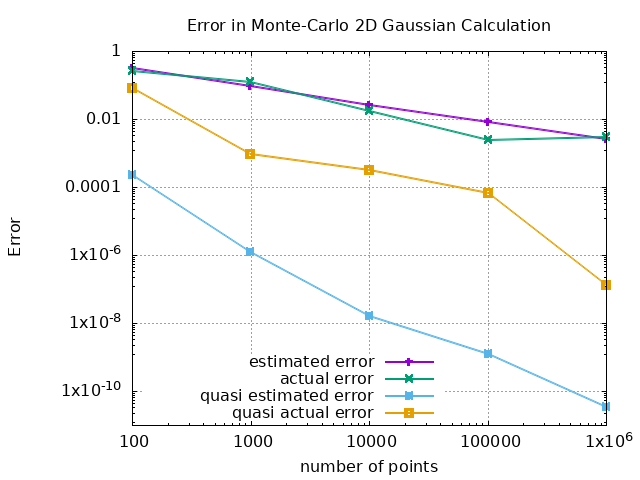
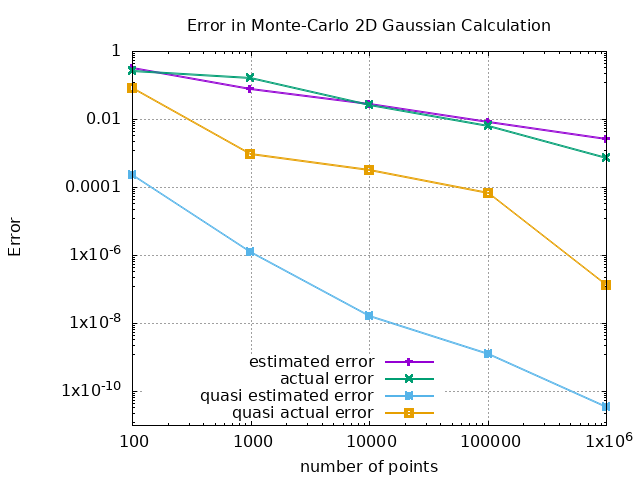
quite far

Changed region(s): [[0.2188, 0.125, 0.9688, 0.3438]]

diff --git a/homeworks/libraries/montecarlo.cs b/homeworks/libraries/montecarlo.cs
@@ -1,19 +1,73 @@
 using System;
 using static System.Math;
 
-public class Montecarlo{
-    public static (double,double) plain(Func<vector,double> f,vector a,vector b,int N){
-        int dim=a.size; double V=1; for(int i=0;i<dim;i++)V*=b[i]-a[i];
-        double sum=0,sum2=0;
-	    var x=new vector(dim);
-	    var rnd=new Random();
-        for(int i=0;i<N;i++){
-                for(int k=0;k<dim;k++)x[k]=a[k]+rnd.NextDouble()*(b[k]-a[k]);
-                double fx=f(x); sum+=fx; sum2+=fx*fx;
-                }
-        double mean=sum/N, sigma=Sqrt(sum2/N-mean*mean);
-        var result=(mean*V,sigma*V/Sqrt(N));
+public class Montecarlo
+{
+    public static (double, double) plain(Func<vector, double> f, vector a, vector b, int N)
+    {
+        int dim = a.size;
+        double V = 1;
+        for (int i = 0; i < dim; i++) V *= b[i] - a[i];
+        double sum = 0, sum2 = 0;
+        var x = new vector(dim);
+        var rnd = new Random();
+        for (int i = 0; i < N; i++)
+        {
+            for (int k = 0; k < dim; k++) x[k] = a[k] + rnd.NextDouble() * (b[k] - a[k]);
+            double fx = f(x);
+            sum += fx;
+            sum2 += fx * fx;
+        }
+        double mean = sum / N, sigma = Sqrt(sum2 / N - mean * mean);
+        var result = (mean * V, sigma * V / Sqrt(N));
         return result;
-}
+    }
 
+    // Updated function: Quasi-random Monte Carlo integrator
+    public static (double, double) quasi(Func<vector, double> f, vector a, vector b, int N)
+    {
+        int dim = a.size;
+        double V = 1;
+        for (int i = 0; i < dim; i++) V *= b[i] - a[i];
+
+        double sum1 = 0, sum2 = 0;
+        var x1 = new vector(dim);
+        var x2 = new vector(dim);
+
+        for (int i = 0; i < N; i++)
+        {
+            // First Halton sequence
+            for (int k = 0; k < dim; k++) x1[k] = a[k] + Halton(i, k + 2) * (b[k] - a[k]);
+            double fx1 = f(x1);
+            sum1 += fx1;
+
+            // Second Halton sequence (shifted by 1 to ensure independence)
+            for (int k = 0; k < dim; k++) x2[k] = a[k] + Halton(i + 1, k + 2) * (b[k] - a[k]);
+            double fx2 = f(x2);
+            sum2 += fx2;
+        }
+
+        double mean1 = sum1 / N;
+        double mean2 = sum2 / N;
+
+        double result = mean1 * V;
+        double estimatedError = Abs(mean1 - mean2) * V;
+
+        return (result, estimatedError);
+    }
+
+    // Helper function: Halton sequence generator
+    private static double Halton(int index, int baseNum)
+    {
+        double result = 0;
+        double f = 1.0 / baseNum;
+        int i = index;
+        while (i > 0)
+        {
+            result += f * (i % baseNum);
+            i /= baseNum;
+            f /= baseNum;
+        }
+        return result;
+    }
 }

diff --git a/homeworks/montecarlo/mcerrortests.cs b/homeworks/montecarlo/mcerrortests.cs
@@ -39,22 +39,29 @@ class MCErrorTests
 
     public static void MonteCarloTest(
         Func<vector, double> func, vector lowerBound, vector upperBound,
-        int minN, int maxN, double idealresult, string filename)
+        int minN, int maxN, double idealresult, string filename, double minLogValue = 1e-308)
     {
         using (var writer = new System.IO.StreamWriter(filename))
         {
             writer.WriteLine("N Result EstimatedError ActualError QuasiEstimatedError QuasiActualError");
-            for (int N = minN; N <= maxN; N *= 10)
-            {
-                var (result, estimatedError) = Montecarlo.plain(func, lowerBound, upperBound, N);
-                var (resultQ, estimatedErrorQ) = Montecarlo.quasi(func, lowerBound, upperBound, N);
-                // Compare results from plain and quasi
-                double actualError = Math.Abs(idealresult - result); // Replace Math.PI with the expected value if different
-                double actualErrorQ = Math.Abs(idealresult - resultQ);
-                // Print results
-                writer.WriteLine($"{N} {result} {estimatedError} {actualError} {estimatedErrorQ} {actualErrorQ}");
-            }
-            Console.WriteLine($"Results from montecarlo plain and quasi test written to {filename}.");
+        for (int N = minN; N <= maxN; N *= 10)
+        {
+            var (result, estimatedError) = Montecarlo.plain(func, lowerBound, upperBound, N);
+            var (resultQ, estimatedErrorQ) = Montecarlo.quasi(func, lowerBound, upperBound, N);
+            
+            double actualError = Math.Abs(idealresult - result);
+            double actualErrorQ = Math.Abs(idealresult - resultQ);
+
+            // Replace zeros with the smallest positive double
+            if (estimatedError == 0) estimatedError = minLogValue;
+            if (actualError == 0) actualError = minLogValue;
+            if (estimatedErrorQ == 0) estimatedErrorQ = minLogValue;
+            if (actualErrorQ == 0) actualErrorQ = minLogValue;
+
+            writer.WriteLine($"{N} {result} {estimatedError} {actualError} {estimatedErrorQ} {actualErrorQ}");
         }
+        writer.Close();
+    }
+    Console.WriteLine($"Results from montecarlo plain and quasi test written to {filename}.");
     }
 }

diff --git a/homeworks/libraries/sfuns.cs b/homeworks/libraries/sfuns.cs
@@ -1,0 +1,26 @@
+using static System.Math;
+
+public class sfuns{
+   public static double fgamma(double x){
+   ///single precision gamma function (formula from Wikipedia)
+      if(x<0)return PI/Sin(PI*x)/fgamma(1-x); // Euler's reflection formula
+      if(x<9)return fgamma(x+1)/x; // Recurrence relation
+      double lnfgamma=x*Log(x+1/(12*x-1/x/10))-x+Log(2*PI/x)/2;
+      return Exp(lnfgamma);
+   }
+   public static double lngamma(double x){
+      if(x<=0)return double.NaN;
+      if(x<9)return lngamma(x+1) - Log(x);
+      double x1 = x-1;
+      double lnfgamma= x1 * Log(x1+1/(12*x1-1/10.0)) - x1 + Log(2*PI/x1/2);
+      return lnfgamma;
+   }
+   static double erf(double x){
+   /// single precision error function (Abramowitz and Stegun, from Wikipedia)
+      if(x<0) return -erf(-x);
+      double[] a={0.254829592,-0.284496736,1.421413741,-1.453152027,1.061405429};
+      double t=1/(1+0.3275911*x);
+      double sum=t*(a[0]+t*(a[1]+t*(a[2]+t*(a[3]+t*a[4]))));/* the right thing */
+      return 1-sum*Exp(-x*x);
+   }
+}
